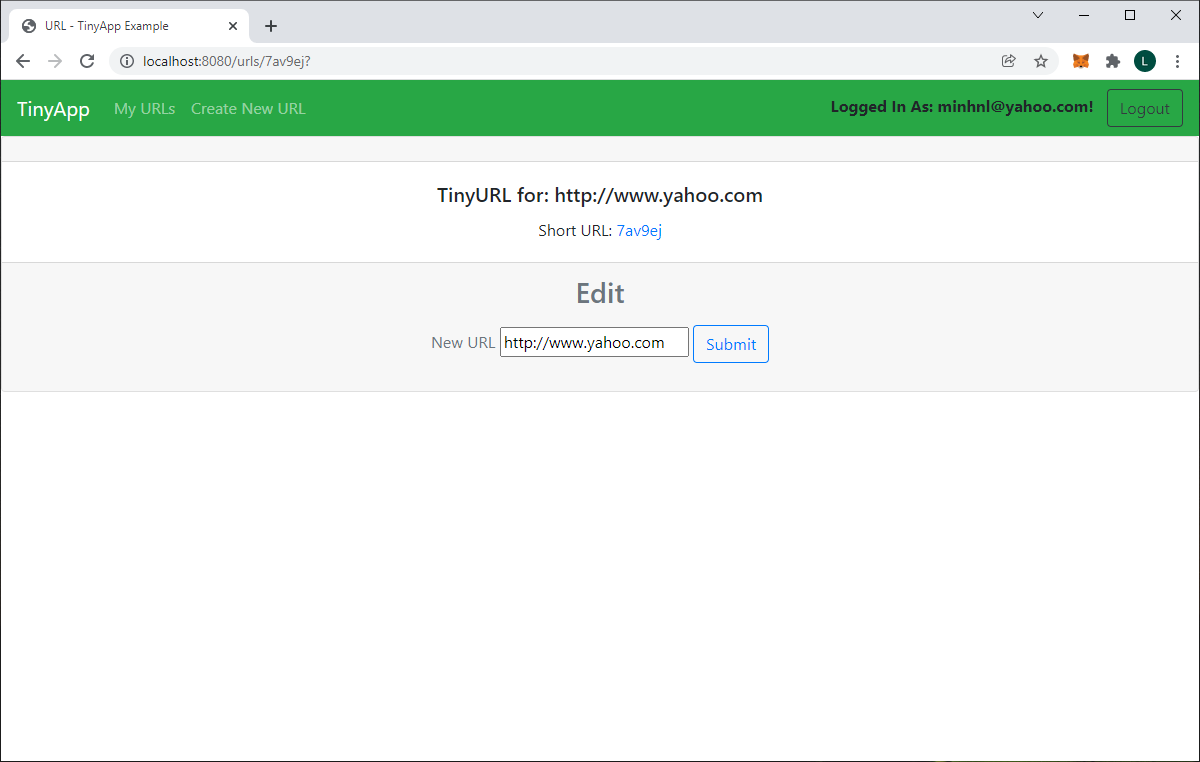
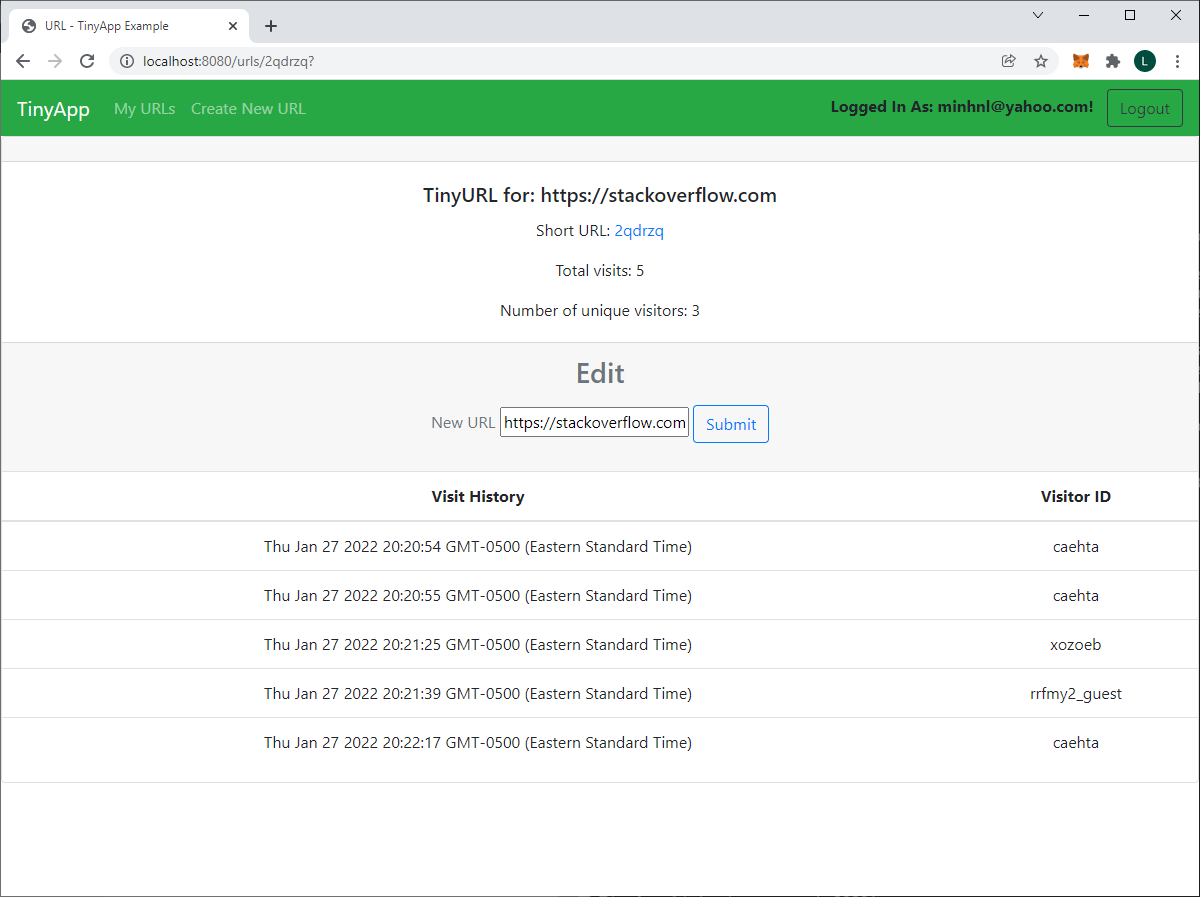
implement stretch functions for tracking visits

diff --git a/express_server.js b/express_server.js
@@ -99,32 +99,39 @@ app.get("/urls/new", (req, res) => {
 
 // open detail of a short url to show long url
 app.get("/urls/:shortURL", (req, res) => {
-  
+  const shortURL = req.params.shortURL;
   if (!req.currentUser) {
     return renderErrorPage(req, res, 403, "Please login");
   }
 
-  if (!urlDatabase[req.params.shortURL]) {
+  if (!urlDatabase[shortURL]) {
     return renderErrorPage(req, res, 404, "This URL is not in our database");
   }
 
-  if (urlDatabase[req.params.shortURL].userID !== req.currentUser) {
+  if (urlDatabase[shortURL].userID !== req.currentUser) {
     return renderErrorPage(req, res, 403, "No permission to access this URL");
   }
 
+  let totalVisits = req.session[`${shortURL}_count`] ? req.session[`${shortURL}_count`] : 0;
+  let uniqueVisitors = req.session[`${shortURL}_uniqueVisitors`] ? req.session[`${shortURL}_uniqueVisitors`] : 0; 
+  let visits = visitStat[shortURL] ? visitStat[shortURL].visits : [];
   const templateVars = {
-    shortURL: req.params.shortURL,
-    longURL: urlDatabase[req.params.shortURL].longURL,
-    user: users[req.currentUser]
+    shortURL,
+    longURL: urlDatabase[shortURL].longURL,
+    user: users[req.currentUser], 
+    totalVisits,
+    uniqueVisitors, 
+    visits
   };
   res.render("urls_show", templateVars);
 });
 
 // redirect to long url based on a given short url
 app.get("/u/:shortURL", (req, res) => {
-  
-  if (urlDatabase[req.params.shortURL]) {
-    const longURL = urlDatabase[req.params.shortURL].longURL;
+  const shortURL = req.params.shortURL;
+  if (urlDatabase[shortURL]) {
+    setStatForTracking(req, shortURL);
+    const longURL = urlDatabase[shortURL].longURL;
     res.redirect(longURL);
   } else {
     return renderErrorPage(req, res, 404, "Short URL Not Found");
@@ -234,3 +241,31 @@ const renderErrorPage = (req, res, statusCode, errorMessage) => {
   };
   return res.status(statusCode).render("urls_error", templateVars);
 };
+
+// Visit statistic in database instead of cookie
+const visitStat = {};
+const setStatForTracking = (req, shortURL) => {
+  // keep track how many times this URL has been visited
+  req.session[`${shortURL}_count`] = req.session[`${shortURL}_count`] ? req.session[`${shortURL}_count`] + 1 : 1;
+
+  // Keep track how many unique visitors
+  const uniqueVisitorsList = [];
+  if (!visitStat[shortURL]) {
+    visitStat[shortURL] = {
+        uniqueVisitors: [req.currentUser],
+        visits: []
+    }
+  }
+  else {
+    const uniqueVisitorsList = visitStat[shortURL].uniqueVisitors;
+    if (!uniqueVisitorsList.includes(req.currentUser)) {
+      uniqueVisitorsList.push(req.currentUser);
+    }
+    
+  }
+  // Track visit time and generate visitor_id
+  const visitorId = req.currentUser ? req.currentUser : `${generateRandomString()}_guest`
+  visitStat[shortURL].visits.push( { time: new Date(), visitorId }) 
+  // set a cookie for frond end access
+  req.session[`${shortURL}_uniqueVisitors`] = visitStat[shortURL].uniqueVisitors.length;
+}
